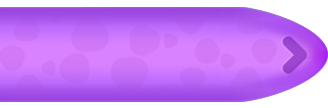
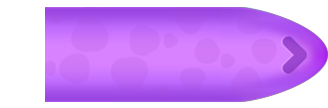
调整手感

Changed region(s): [[0.0, 0.0556, 0.1524, 0.9444]]

diff --git a/Assets/Code/Snake/SnakeBodySpriteManager.cs b/Assets/Code/Snake/SnakeBodySpriteManager.cs
@@ -34,8 +34,7 @@ namespace ReGecko.SnakeSystem
         GridConfig _grid;
         LineRenderer _line;
         readonly List<Vector3> _posBuffer = new List<Vector3>(256);
-        readonly List<GameObject> _cacheNewBodyList = new List<GameObject>();
-
+        private readonly List<RectTransform> _cachedSubRectTransforms = new List<RectTransform>();
 
         // 新增：折线缓存，避免每帧ToArray分配
         Vector3[] _linePositionsCache;
@@ -61,6 +60,14 @@ namespace ReGecko.SnakeSystem
             BodyColor = _snake.BodyColor;
             BodySprite = _snake.BodySprite;
             LineWidth = _grid.CellSize * 0.9f;
+
+            _cachedSubRectTransforms.Clear();
+            RectTransform rt = null;
+            foreach (var subSegment in _snake.GetSegments())
+            {
+                rt = subSegment.GetComponent<RectTransform>();
+                _cachedSubRectTransforms.Add(rt);
+            }
 
             EnsureLineCreated();
             UpdateAllLinePositions();
@@ -138,7 +145,7 @@ namespace ReGecko.SnakeSystem
         {
             if (_snake == null || _grid.Width == 0) return;
 
-            var body = _snake.GetSegments();
+            var body = _cachedSubRectTransforms;
             if (body == null || body.Count == 0)
             {
                 if (_line != null) _line.gameObject.SetActive(false);
@@ -148,20 +155,17 @@ namespace ReGecko.SnakeSystem
             EnsureLineCreated();
 
             _posBuffer.Clear();
-            _cacheNewBodyList.Clear();
-
-            _cacheNewBodyList.AddRange(body);
 
             ////头部一个点，身体，尾部一个点
             //EqualizeHeadAndTail(_cacheNewBodyList);
             float unit = SubGridHelper.SUB_CELL_SIZE * _grid.CellSize;
             int index = 0;
-            foreach (var node in _cacheNewBodyList)
+            foreach (var node in _cachedSubRectTransforms)
             {
                 var p = node.transform.position;
                 if(coConsumeCnt >= 0)
                 {
-                    p.z = node.transform.position.z;
+                    p.z = node.anchoredPosition3D.z;
                 }
                 else
                 {

diff --git a/Assets/Code/Snake/SnakeController.cs b/Assets/Code/Snake/SnakeController.cs
@@ -761,15 +761,12 @@ namespace ReGecko.SnakeSystem
                 _cellPathQueue ??= new LinkedList<Vector2Int>();
                 _cellPathQueue.Clear();
                 EnqueueSubCellPath(fromHead, fromSubCell, targetSubCell, _cellPathQueue);
-                var speed = Time.deltaTime * 1.2f;// Mathf.Max(_leadSpeedWorld, UpdateConsumeMouseSpeedFromBigPath(SubGridHelper.SubCellToWorld(fromSubCell, _grid)));
+                var speed = Time.deltaTime * 1.5f;// Mathf.Max(_leadSpeedWorld, UpdateConsumeMouseSpeedFromBigPath(SubGridHelper.SubCellToWorld(fromSubCell, _grid)));
 
                 for (var n = _cellPathQueue.First; n != null; n = n.Next)
                 {
                     var subt = n.Value;
                     var bigt = SubGridHelper.SubCellToBigCell(subt);
-                    var fixwold = SubGridHelper.SubCellToWorld(subt, _grid);
-                    //var fixbifcell = SubGridHelper.WorldToBigCell(fixwold, _grid);
-                    //Debug.Log($"_cellPathQueue: bigcell:{n.Value} world:{world} fixbigcell{fixbifcell} fixworld:{fixwold}");
                     _pendingTargetCellStates.AddLast(new MoveState(fromHead, subt, bigt, speed, world, true));
                 }
 
@@ -1021,7 +1018,6 @@ namespace ReGecko.SnakeSystem
                     // 计算所需时间
                     float duration = Mathf.Min(0.1f, _curMoveState.DragSpeed);
 
-                    Debug.Log($"duration:{duration}  distance:{distance} _curMoveState.DragSpeed:{_curMoveState.DragSpeed} ");
                     for (int i = 0; i < _cachedSubRectTransforms.Count; i++)
                     {
                         MoveNextFollowTweeners(activeFromHead, i, duration);
@@ -1403,7 +1399,6 @@ namespace ReGecko.SnakeSystem
             {
                 // 更新Tweener的目标位置
                 curFollowTweener.ChangeEndValue(target, true).Restart();
-                //Debug.Log($"ChangeEndValue Restart target:{target}");
             }
 
 

diff --git a/Assets/Code/Grid/Entities/HoleEntity.cs b/Assets/Code/Grid/Entities/HoleEntity.cs
@@ -11,7 +11,7 @@ namespace ReGecko.Grid.Entities
 	public class HoleEntity : BaseEntity
 	{
 		[Header("洞配置")]
-		public float ConsumeInterval = 0.01f; // 每段吞噬间隔
+		public float ConsumeInterval = 0.015f; // 每段吞噬间隔
 		
 		[Header("颜色配置")]
 		[Tooltip("洞的颜色类型，只有相同颜色的蛇才能进入")]
